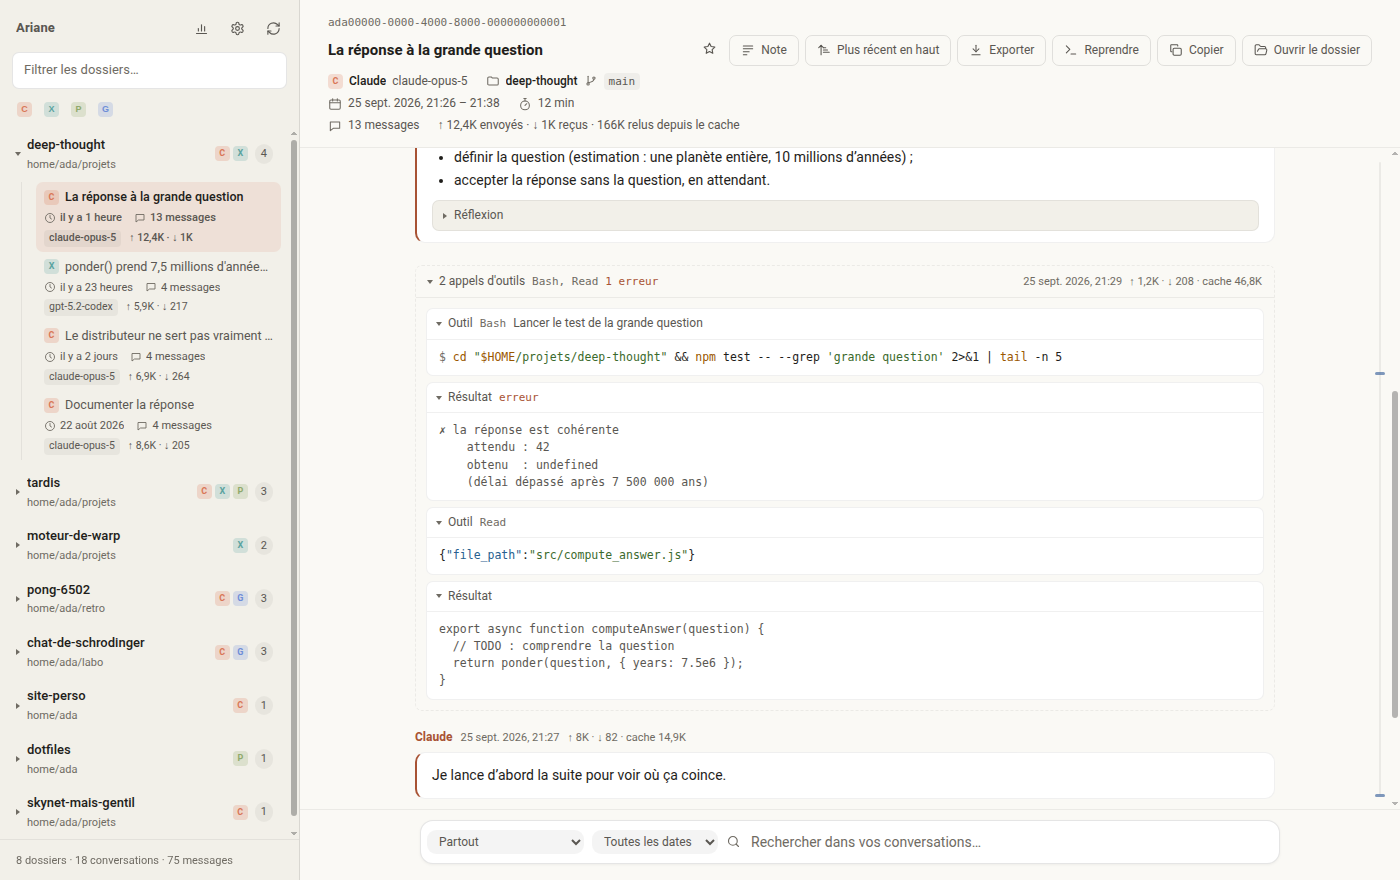
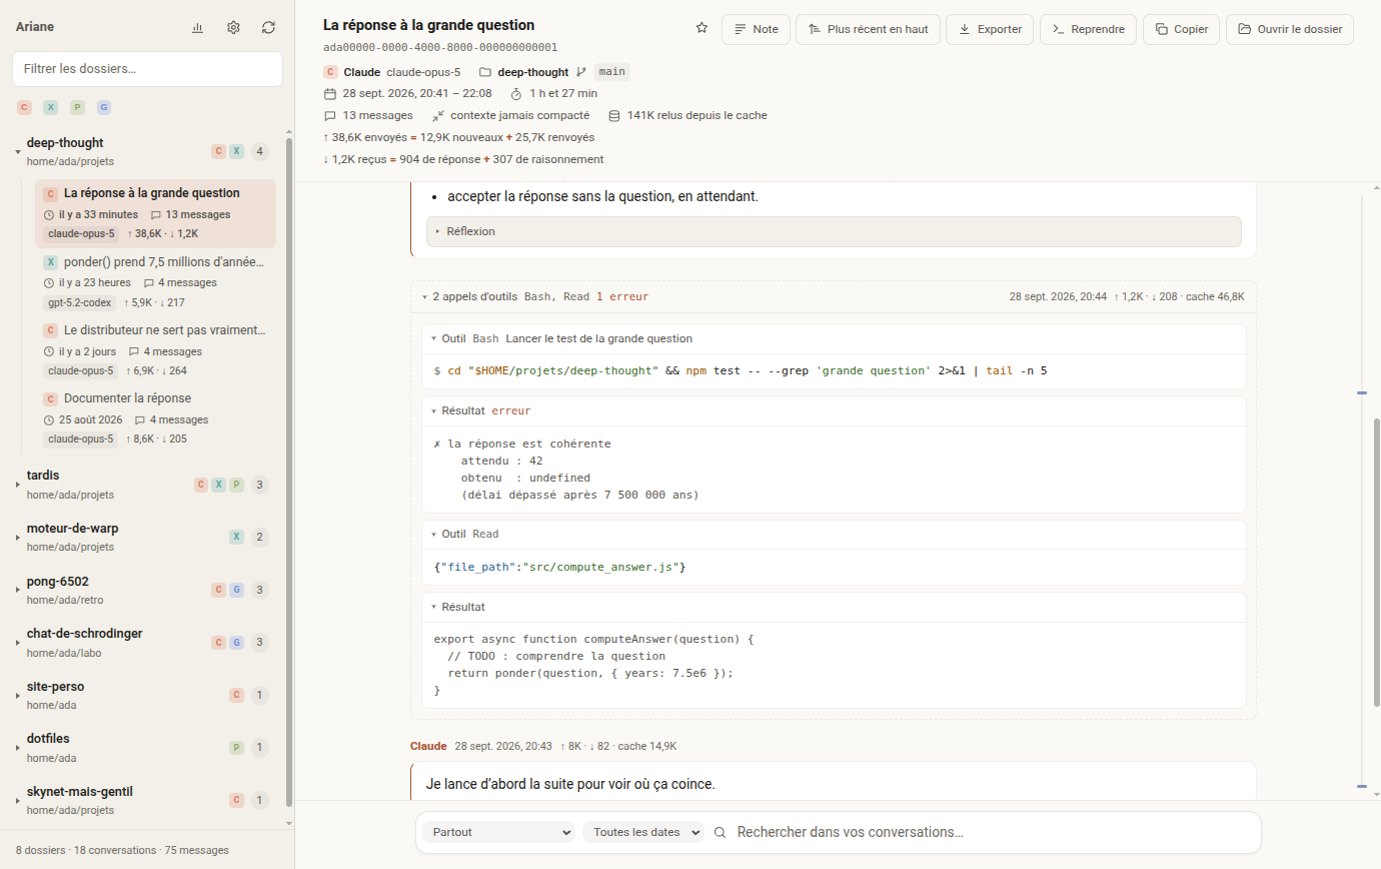
montre les deux calculs sur les captures du README
La démo ne perdait jamais son cache et n'écrivait aucun compte de
raisonnement : la vitrine affichait « ↑ 12,4K envoyés » seul et les
statistiques « Renvoyés 0 ».

- une pause de 75 minutes avant « Option 2 » : l'appel suivant renvoie
  tout le contexte, comme en vrai
- chaque réponse Claude écrit son thinking_tokens, comme Claude Code
  depuis août
- la vitrine dit « ↑ 38,6K envoyés = 12,9K nouveaux + 25,7K renvoyés »
  et « ↓ 1,2K reçus = 904 de réponse + 307 de raisonnement » ; un test
  tient les deux
- les cinq captures refaites

diff --git a/scripts/demo-corpus.js b/scripts/demo-corpus.js
@@ -29,7 +29,8 @@ const TOOL_GAP = 4 * SECOND;
 
 /**
  * The conversations. A turn is one of:
- *   { user }                 something the person typed
+ *   { user, pause? }         something the person typed — after a pause long
+ *                            enough for the cache to expire, if `pause` says so
  *   { say, think? }          the assistant answering, with optional reasoning
  *   { tool, input, result }  a tool call and what it returned
  */
@@ -76,7 +77,9 @@ const CONVERSATIONS = [
           '- définir la question (estimation : une planète entière, 10 millions d’années) ;\n' +
           '- accepter la réponse sans la question, en attendant.',
       },
-      { user: 'Option 2. On verra la question en v2.' },
+      // Back from a coffee: the cache has expired, and the next call sends the
+      // whole context again — so the header shows « = … nouveaux + … renvoyés ».
+      { user: 'Option 2. On verra la question en v2.', pause: 75 * MINUTE },
       {
         tool: 'Edit',
         input: {
@@ -553,11 +556,20 @@ function ensureDemoCorpus(root, { reset = false, now } = {}) {
   return { env, created: true };
 }
 
-/** When each turn happens: a steady pace, with a result just after its call. */
+/**
+ * When each turn happens: a steady pace, with a result just after its call —
+ * and the first call after a pause `cold`, its cache gone.
+ */
 function* timeline(turns, start) {
   let t = start;
+  let cold = false;
   for (const turn of turns) {
-    yield { turn, at: t, resultAt: t + TOOL_GAP };
+    if (turn.pause) {
+      t += turn.pause;
+      cold = true;
+    }
+    yield { turn, at: t, resultAt: t + TOOL_GAP, cold: cold && !turn.user };
+    if (!turn.user) cold = false;
     t += TURN_GAP;
   }
 }
@@ -568,7 +580,11 @@ const iso = (ms) => new Date(ms).toISOString();
  * What each reply cost — invented, but shaped like the real thing (ARCHITECTURE
  * § 12): a handful of fresh tokens, the new context written to the cache once,
  * and the whole context read back at every turn, which dwarfs everything else,
- * as it does for real. The same corpus always gives the same figures.
+ * as it does for real. A call after a pause finds its cache expired: it reads
+ * nothing back and writes the whole context again (contract.js, "What was
+ * sent again"). The reasoning weighs about what it does in the real corpus, a
+ * third to a half of what comes back. The same corpus always gives the same
+ * figures.
  *
  * @returns {(turn: object) => {input: number, cacheRead: number, cacheWrite: number,
  *   output: number, reasoning: number}}
@@ -577,18 +593,19 @@ function costs(conversation) {
   const seed = [...conversation.id].reduce((sum, c) => sum + c.charCodeAt(0), 0);
   let context = 11000 + (seed % 7) * 1300;
   let n = 0;
-  return (turn) => {
+  return (turn, { cold = false } = {}) => {
     n += 1;
     const said = `${turn.say || ''}${turn.think || ''}${turn.input ? JSON.stringify(turn.input) : ''}`;
-    const reasoning = turn.think ? Math.round(turn.think.length * 0.9) : 0;
+    const reasoning = turn.think ? Math.round(turn.think.length * 2.4) : 0;
+    const written = n === 1 ? 5200 + (seed % 5) * 700 : 380 + said.length * 2;
     const cost = {
       input: 3 + ((seed + n) % 6),
-      cacheRead: context,
-      cacheWrite: n === 1 ? 5200 + (seed % 5) * 700 : 380 + said.length * 2,
+      cacheRead: cold ? 0 : context,
+      cacheWrite: cold ? context + written : written,
       output: Math.round(60 + said.length * 0.45) + reasoning,
       reasoning,
     };
-    context += cost.cacheWrite + cost.output;
+    context += written + cost.output;
     return cost;
   };
 }
@@ -617,8 +634,8 @@ function writeClaude(configDir, conversation, cwd, start) {
   };
   const cost = costs(conversation);
   // One reply, one line here: its id and its usage, as the API writes them.
-  const assistant = (content, turn) => {
-    const c = cost(turn);
+  const assistant = (content, turn, cold) => {
+    const c = cost(turn, { cold });
     return {
       role: 'assistant',
       model: 'claude-opus-5',
@@ -629,11 +646,13 @@ function writeClaude(configDir, conversation, cwd, start) {
         cache_read_input_tokens: c.cacheRead,
         cache_creation_input_tokens: c.cacheWrite,
         output_tokens: c.output,
+        // What Claude Code writes since August 2026, 0 included when it did not think.
+        output_tokens_details: { thinking_tokens: c.reasoning },
       },
     };
   };
 
-  for (const { turn, at, resultAt } of timeline(conversation.turns, start)) {
+  for (const { turn, at, resultAt, cold } of timeline(conversation.turns, start)) {
     if (turn.user) {
       push({ type: 'user', timestamp: iso(at), message: { role: 'user', content: turn.user } });
     } else if (turn.tool) {
@@ -641,7 +660,7 @@ function writeClaude(configDir, conversation, cwd, start) {
       push({
         type: 'assistant',
         timestamp: iso(at),
-        message: assistant([{ type: 'tool_use', id, name: turn.tool, input: turn.input }], turn),
+        message: assistant([{ type: 'tool_use', id, name: turn.tool, input: turn.input }], turn, cold),
       });
       push({
         type: 'user',
@@ -655,7 +674,7 @@ function writeClaude(configDir, conversation, cwd, start) {
       const content = [];
       if (turn.think) content.push({ type: 'thinking', thinking: turn.think, signature: 'demo' });
       content.push({ type: 'text', text: turn.say });
-      push({ type: 'assistant', timestamp: iso(at), message: assistant(content, turn) });
+      push({ type: 'assistant', timestamp: iso(at), message: assistant(content, turn, cold) });
     }
   }
 
@@ -699,8 +718,8 @@ function writeCodex(home, conversation, cwd, start) {
   const total = { input_tokens: 0, cached_input_tokens: 0, output_tokens: 0, reasoning_output_tokens: 0, total_tokens: 0 };
   const limits = conversation.limits || { hours: 5, week: 20 };
   let replies = 0;
-  const spent = (turn, at) => {
-    const c = cost(turn);
+  const spent = (turn, at, cold) => {
+    const c = cost(turn, { cold });
     const last = {
       input_tokens: c.input + c.cacheWrite + c.cacheRead,
       cached_input_tokens: c.cacheRead,
@@ -733,18 +752,18 @@ function writeCodex(home, conversation, cwd, start) {
   // same id twice means one conversation copied the other (Index.markCopies).
   const tag = conversation.id.slice(-4);
 
-  for (const { turn, at, resultAt } of timeline(conversation.turns, start)) {
+  for (const { turn, at, resultAt, cold } of timeline(conversation.turns, start)) {
     n += 1;
     if (turn.user) {
       item(at, { type: 'message', id: `msg_demo_${tag}_${n}`, role: 'user', content: [{ type: 'input_text', text: turn.user }] });
     } else if (turn.tool) {
       const callId = `call_demo_${tag}_${n}`;
       item(at, { type: 'function_call', id: callId, call_id: callId, name: turn.tool, arguments: JSON.stringify(turn.input) });
-      spent(turn, at);
+      spent(turn, at, cold);
       item(resultAt, { type: 'function_call_output', call_id: callId, output: turn.result });
     } else {
       item(at, { type: 'message', id: `msg_demo_${tag}_${n}`, role: 'assistant', content: [{ type: 'output_text', text: turn.say }] });
-      spent(turn, at);
+      spent(turn, at, cold);
     }
   }
 

diff --git a/test/demo.test.js b/test/demo.test.js
@@ -87,6 +87,32 @@ test('the showcase conversation shows what the app is for', async (t) => {
   );
 });
 
+// Les captures du README montrent les deux calculs de l'en-tête (0.9.0) :
+// « envoyés = nouveaux + renvoyés » et « reçus = réponse + raisonnement ».
+// Sans pause ni compte de raisonnement, la vitrine ne montrait ni l'un ni
+// l'autre (28 septembre 2026).
+test('la vitrine a de quoi montrer ses deux calculs', async (t) => {
+  const { index } = await indexDemo(t);
+  const [session] = index
+    .folders()
+    .flatMap((f) => index.sessions(f.id))
+    .filter((s) => s.title === SHOWCASE.title);
+  const sums = index.sessionTokens(session.id);
+  assert.ok(sums.tokResent > 0, 'une pause a fait expirer le cache : du contexte renvoyé');
+  assert.ok(sums.tokReasoning > 0 && sums.reasoningMissing === 0, 'chaque réponse compte son raisonnement');
+
+  // Et la réponse qui suit la pause le dit sur sa propre ligne : son renvoi
+  // fait l'essentiel de ce qu'elle a envoyé (tokenLine, au moins la moitié).
+  const cold = index
+    .messages(session.id)
+    .find((m) => m.usage && m.usage.resent > 0);
+  assert.ok(cold, 'un appel a renvoyé le contexte');
+  assert.ok(
+    cold.usage.resent * 2 >= cold.usage.input + cold.usage.cacheWrite,
+    'le renvoi fait au moins la moitié de ce que l’appel a envoyé'
+  );
+});
+
 // La capture des statistiques du README n'a de sens que si la démo compte ses
 // jetons, sur plusieurs mois, avec les limites de Codex — comme un vrai corpus.
 test('la démo compte ce qu’elle a coûté, sur plusieurs mois, limites comprises', async (t) => {

diff --git a/CHANGELOG.md b/CHANGELOG.md
@@ -41,6 +41,20 @@ Voici à quelle version chacune appartient.
 
 ---
 
+## 28 septembre 2026
+
+### Les captures du README montrent les deux calculs
+
+**Demandé** : « pour les démos, on pourrait aussi avoir les = et + dans les captures d'écran, pour
+avoir le calcul même fictif ? » Le corpus fictif ne perdait jamais son cache et n'écrivait aucun
+compte de raisonnement : l'en-tête de la vitrine affichait « ↑ 12,4K envoyés » seul, et les
+statistiques « Renvoyés 0 ». Il a maintenant une pause de 75 minutes avant « Option 2 » — l'appel
+suivant renvoie tout le contexte, comme en vrai — et chaque réponse Claude écrit son
+`thinking_tokens`, comme Claude Code depuis août. La vitrine dit « ↑ 38,6K envoyés = 12,9K
+nouveaux + 25,7K renvoyés » et « ↓ 1,2K reçus = 904 de réponse + 307 de raisonnement » ; la bande
+d'outils qui suit la pause, « ↑ 27,4K = 1,7K nouveaux + 25,7K renvoyés ». Un test tient les deux,
+et chacun a échoué sans ce qu'il garde.
+
 ## 26 septembre 2026
 
 ### Envoyés = nouveaux + renvoyés, reçus = réponse + raisonnement, et combien de compactages
